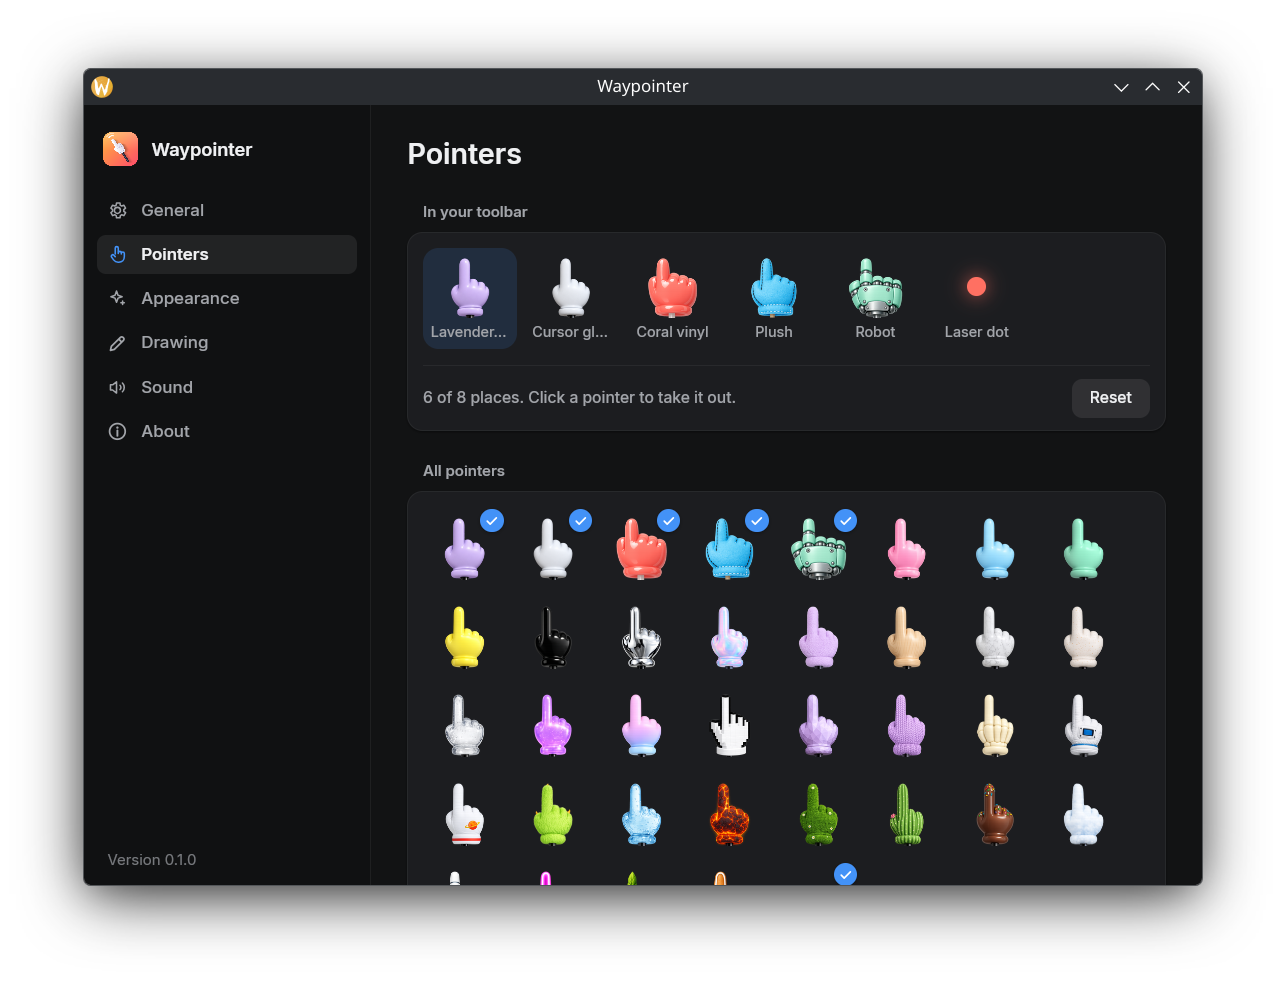
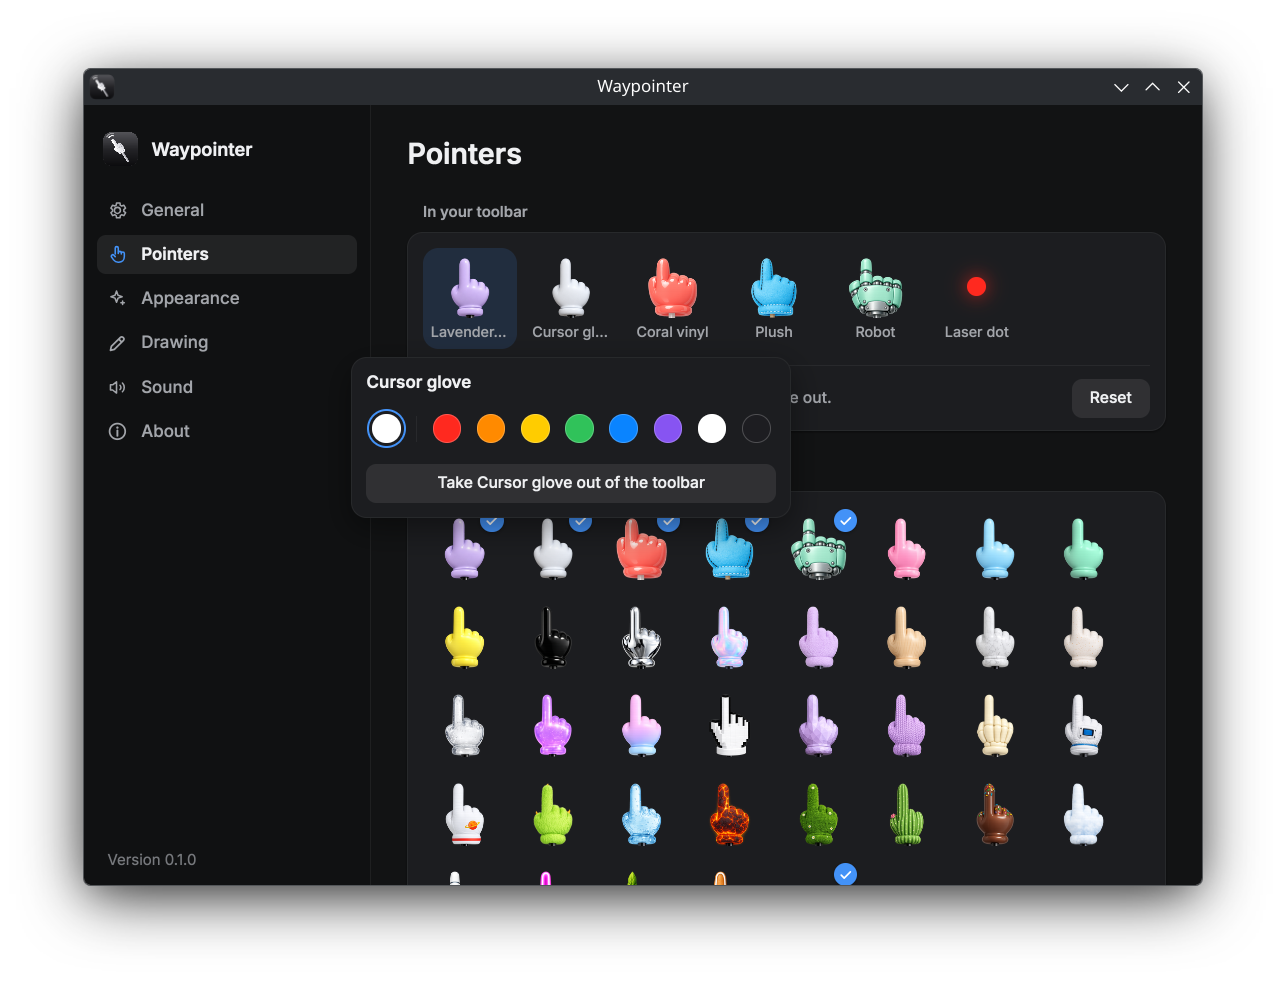
docs: new screenshots

diff --git a/CLAUDE.md b/CLAUDE.md
@@ -32,6 +32,7 @@ written in Rust and drawn with [Rune](https://github.com/anomalyco/rune) (pinned
 - `src/ink.rs`, `src/hands.rs`, `src/art.rs`: lines, the hand pictures, GPU-ready pictures.
 - `src/raster.rs`: draws the lines with tiny-skia, in tiles. Rune's own strokes are one
   capsule per segment and look stepped on a hand-drawn line.
+- `src/i18n.rs`, `i18n/*.json`: translations. New text goes into every catalog, a test checks.
 - `src/handmaker.rs`: the user's own hands from a PNG.
 - `src/ui.rs`, `src/icons.rs`: the settings window.
 - `src/platform.rs`: D-Bus: the API, KGlobalAccel, KWin scripts, lock and sleep.
@@ -94,10 +95,13 @@ belong to the user.
 - Point a run at files of its own: `WP_CONFIG=<file>` for the settings, `WP_HANDS_DIR=<dir>`
   for the user's hands, `WP_DATA_DIR=<dir>` for hands and sounds.
 - Check how the settings window looks without opening it: `waypointer --snap out.png --scene
-  pointers` (scenes: general, pointers, appearance, drawing, sound, about, make-hand). The
-  scenes `ink` and `laser` show the drawing and the laser over a light and a dark half; add
-  `--scale 2` for a HiDPI screen. Debug builds have Rune's other headless tools too (`--tree`,
-  `--script`).
+  pointers` (scenes: general, pointers, pointer-ink, appearance, drawing, sound, about,
+  make-hand). The scenes `ink` and `laser` show the drawing and the laser over a light and a
+  dark half, `toolbar` the toolbar with its colours open; add `--scale 2` for a HiDPI screen.
+  Debug builds have Rune's other headless tools too (`--tree`, `--script`).
+- README screenshots of the settings window: `--scene <name>` without `--snap` opens the real
+  window in that state, next to the installed Waypointer (no D-Bus, tray or shortcuts). Make it
+  the active window through KWin by its pid, then `spectacle -b -n -a -o out.png`.
 - A live run on the desktop only with a time limit (`timeout 60 target/debug/waypointer
   --autostart`), and quit the installed Waypointer first: only one runs at a time. The
   overlay takes every click while it is on; Esc or `waypointer off` turns it off.

diff --git a/README.md b/README.md
@@ -67,11 +67,15 @@ reach the windows and the hand stays, until you click it or double-tap again. Cl
 to mute the tap sound. Rest the pointer on either to pick the ink colour or set the volume. The
 panels stay usable with the normal cursor.
 
+<p align="center">
+  <img src="res/screenshots/toolbar.png" alt="The toolbar with its pointers, the ink button, the speaker and the close button, and the ink colours open above it" width="527">
+</p>
+
 You can make your own hand too: describe it, let ChatGPT or another image tool draw it, and
 pick the PNG. Waypointer checks it and puts it on a stick.
 
 <p align="center">
-  <img src="res/screenshots/settings.png" alt="The Pointers page of the settings: the toolbar's pointers and all 37 to pick from" width="640">
+  <img src="res/screenshots/settings.png" alt="The Pointers page of the settings: the toolbar's pointers, all 37 to pick from, and the colours of the Cursor glove" width="640">
 </p>
 
 Every setting is in the settings window: shortcuts, which key clicks for real, the toolbar,
@@ -79,6 +83,10 @@ the pointer size, the ink, the tap sound and its volume. On the **Pointers** pag
 pointers into the toolbar, out of it, or into a new order. Click one to pick the colour it
 draws in. On the **Drawing** page you pick the ink, how long drawings stay, and whether a ring
 spreads where you click.
+
+<p align="center">
+  <img src="res/screenshots/drawing.png" alt="The Drawing page of the settings: the ink colour, the ring where you click, and how long drawings stay" width="640">
+</p>
 
 ## Desktops
 
